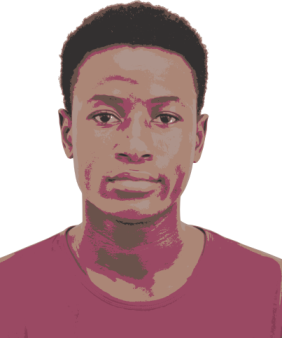
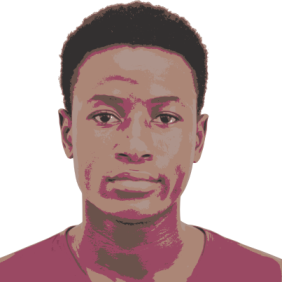
font size + images

diff --git a/src/components/Index.svelte b/src/components/Index.svelte
@@ -17,6 +17,14 @@
     text-align: center;
   }
 
+  .info {
+    font-size: 18px;
+  }
+
+  .myself {
+    border-radius: 100%;
+  }
+
   @media (min-width: 750px) {
     .content {
       flex-flow: row nowrap;
@@ -38,13 +46,17 @@
         Full Stack Developer
         <img src="/assets/img/verify.svg" alt="verified" />
       </p>
+      <p class="info">I design and develop wonderful∞ apps</p>
     </div>
     <div>
       <picture>
         <source
           srcset="/assets/img/bruno_edoh_large.png"
           media="(min-width: 750px)" />
-        <img src="/assets/img/bruno_edoh_small.png" alt="bruno edoh" />
+        <img
+          class="myself"
+          src="/assets/img/bruno_edoh_small.png"
+          alt="bruno edoh" />
       </picture>
     </div>
   </section>
